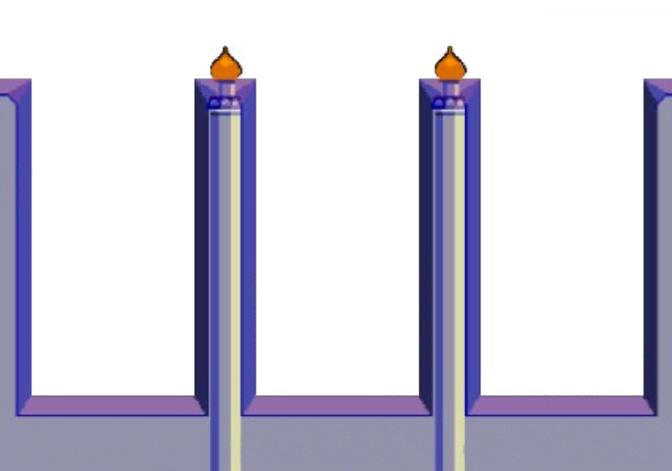
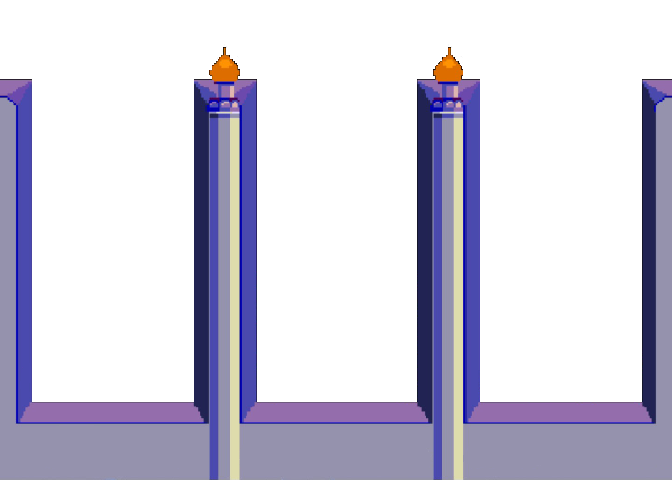
Fix curtain animation + screen diff bg

Changed region(s): [[0.0, 0.0892, 1.0, 1.0], [0.625, 0.9512, 0.6562, 1.0]]

diff --git a/project1-tetris/project1-tetris/Source/ScreenLvl_1.cpp b/project1-tetris/project1-tetris/Source/ScreenLvl_1.cpp
@@ -13,7 +13,6 @@ using namespace std;
 #include <sstream>
 
 
-
 //#include "ModuleFadeToBlack.h"
 
 ScreenLvl_1::ScreenLvl_1(bool startEnabled) : Module(startEnabled)
@@ -24,13 +23,14 @@ ScreenLvl_1::ScreenLvl_1(bool startEnabled) : Module(startEnabled)
 	curtain.PushBack({ 328, 3, 157, 126 });
 	curtain.PushBack({ 166, 3, 157, 126 });
 	curtain.PushBack({ 3, 3, 157, 126 });
-	curtain.PushBack({ 166, 3, 157, 126 });
+	/*curtain.PushBack({ 166, 3, 157, 126 });
 	curtain.PushBack({ 328, 3, 157, 126 });
 	curtain.PushBack({ 491, 3, 157, 126 });
 	curtain.PushBack({ 653, 3, 157, 126 });
-	curtain.PushBack({ 816, 3, 157, 126 });
+	curtain.PushBack({ 816, 3, 157, 126 });*/
 
 	curtain.speed = 0.2f;
+	curtain.loop = true;
 }
 
 ScreenLvl_1::~ScreenLvl_1()
@@ -51,7 +51,8 @@ bool ScreenLvl_1::Start()
 
 	score = 0;
 	lines = 0;
-	linesleft = 12;
+	linesObjective = 12;
+	linesleft = linesObjective;
 
 	lvl_credits = App->sStart->credits - 1;
 
@@ -61,8 +62,9 @@ bool ScreenLvl_1::Start()
 update_status ScreenLvl_1::Update()
 {
 
-	curtain.Update();
-
+	if (curtain.GetLoopCount() == 1) { curtain.speed = 0; }
+	else { curtain.Update(); }
+	
 	if (App->input->keys[SDL_SCANCODE_P] == KEY_STATE::KEY_REPEAT)
 	{
 		score++;
@@ -77,12 +79,13 @@ update_status ScreenLvl_1::Update()
 	if (App->input->keys[SDL_SCANCODE_L] == KEY_STATE::KEY_DOWN)
 	{
 		linesleft--;
-		LOG("%d", linesleft);
+		LOG("Lines left: %d", linesleft);
 	}
 
 	if (App->input->keys[SDL_SCANCODE_SPACE] == KEY_STATE::KEY_DOWN)
 	{
 		if (lvl_credits < 9) { lvl_credits++; }
+		LOG("Curtain loop count: %d", curtain.GetLoopCount());
 	}
 
 	return update_status::UPDATE_CONTINUE;
@@ -94,9 +97,11 @@ update_status ScreenLvl_1::PostUpdate()
 	App->render->Blit(bg_texture, 0, 10, NULL);
 	
 	//Curtain animation
-	App->render->Blit(curtain_texture, 258, 194, &(curtain.GetCurrentFrame()), 0.85f);
-
-
+	if (curtain.GetLoopCount() == 0)
+	{
+		App->render->Blit(curtain_texture, 258, 194, &(curtain.GetCurrentFrame()), 0.85f);
+	}
+	
 	string s_score = std::to_string(score);
 	const char* ch_score = s_score.c_str();
 
@@ -108,7 +113,6 @@ update_status ScreenLvl_1::PostUpdate()
 
 	string s_credits = to_string(lvl_credits);
 	const char* ch_credits = s_credits.c_str();
-
 
 
 	App->render->TextDraw("Score", 49, 433, 255, 0, 0, 255, 15);
@@ -126,7 +130,7 @@ update_status ScreenLvl_1::PostUpdate()
 	//App->render->TextDraw("next round", 257, 305, 255, 255, 255, 255, 16);
 
 	//Lines left
-	if (linesleft > 0 && linesleft <= 12)
+	if (linesleft > 0 && linesleft <= linesObjective && curtain.GetLoopCount() > 0) // Last condition is for the "Complete x lines to win"
 	{
 		App->render->TextDraw("0", 270, 225, 255, 0, 0, 255, 15);
 		App->render->TextDraw(ch_linesleft, 285, 225, 255, 0, 0, 255, 15);

diff --git a/project1-tetris/project1-tetris/Source/ScreenDiff.cpp b/project1-tetris/project1-tetris/Source/ScreenDiff.cpp
@@ -30,7 +30,7 @@ bool ScreenDiff::Start()
 	LOG("Loading background assets");
 	bool ret = true;
 
-	bg_texture = App->textures->Load("Assets/ss_DifficultyBg.png");
+	bg_texture = App->textures->Load("Assets/ss_difficultyBg.png");
 
 	return ret;
 }
@@ -39,6 +39,7 @@ update_status ScreenDiff::Update()
 {
 	start_screen.Update();
 
+	// If easy mode selected change screen
 	if (App->input->keys[SDL_SCANCODE_SPACE] == KEY_STATE::KEY_DOWN)
 	{
 		App->fade->FadeToBlack(this, (Module*)App->sLvl_1, 0);
@@ -50,7 +51,7 @@ update_status ScreenDiff::Update()
 update_status ScreenDiff::PostUpdate()
 {
 
-	App->render->Blit(bg_texture, 0, 10, NULL);
+	App->render->Blit(bg_texture, 0, 0, NULL);
 
 	return update_status::UPDATE_CONTINUE;
 }

diff --git a/project1-tetris/project1-tetris/Source/Application.cpp b/project1-tetris/project1-tetris/Source/Application.cpp
@@ -30,11 +30,11 @@ Application::Application()
 	modules[2] = textures = new ModuleTextures(true);
 	modules[3] = audio = new ModuleAudio(true);
 
-	modules[4] = sCredits1 = new ScreenCredits1(false);
+	modules[4] = sCredits1 = new ScreenCredits1(true);
 	modules[5] = sCredits2 = new ScreenCredits2(false);
 	modules[6] = sStart = new ScreenStart(false);
 	modules[7] = sDiff = new ScreenDiff(false);
-	modules[8] = sLvl_1 = new ScreenLvl_1(true);		//Gameplay scene starts disabled
+	modules[8] = sLvl_1 = new ScreenLvl_1(false);		//Gameplay scene starts disabled
 	
 	modules[9] = player = new ModulePlayer(false);	//Player starts disabled
 	modules[10] = particles = new ModuleParticles(true);

diff --git a/project1-tetris/project1-tetris/Source/ModuleFadeToBlack.cpp b/project1-tetris/project1-tetris/Source/ModuleFadeToBlack.cpp
@@ -77,7 +77,7 @@ bool ModuleFadeToBlack::FadeToBlack(Module* moduleToDisable, Module* moduleToEna
 		frameCount = 0;
 		maxFadeFrames = frames;
 
-		// TODO 1: How do we keep track of the modules received in this function?
+
 		this->moduleToDisable = moduleToDisable;
 		this->moduleToEnable = moduleToEnable;
 

diff --git a/project1-tetris/project1-tetris/Source/Globals.h b/project1-tetris/project1-tetris/Source/Globals.h
@@ -23,7 +23,7 @@ typedef unsigned int uint;
 #define SCREEN_WIDTH 672
 #define SCREEN_HEIGHT 480
 
-#define SCREEN_SIZE 2
+#define SCREEN_SIZE 1
 #define WIN_FULLSCREEN 0
 #define WIN_FULLSCREEN_DESKTOP 0
 #define WIN_BORDERLESS 0

diff --git a/project1-tetris/project1-tetris/Source/ModuleParticles.cpp b/project1-tetris/project1-tetris/Source/ModuleParticles.cpp
@@ -152,7 +152,7 @@ void ModuleParticles::FwTiming(int x_frame)
 {
 	if (x_frame == 0)
 	{
-		//SDL_Delay(500);		// "5 segundos"
+		SDL_Delay(500);		// "5 segundos"
 	}
 
 	if (x_frame == (SCREEN_WIDTH * 10))

diff --git a/project1-tetris/project1-tetris/Source/Animation.h b/project1-tetris/project1-tetris/Source/Animation.h
@@ -48,6 +48,12 @@ public:
 		return frames[(int)currentFrame];
 	}
 
+	// Getter
+	int GetLoopCount()
+	{
+		return loopCount;
+	}
+
 };
 
 #endif

diff --git a/project1-tetris/project1-tetris/Source/ScreenLvl_1.h b/project1-tetris/project1-tetris/Source/ScreenLvl_1.h
@@ -45,10 +45,10 @@ public:
 	Animation curtain;
 
 	int score;
-
 	int lines;
 
 	int linesleft;
+	int linesObjective;
 
 	int lvl_credits;
 
